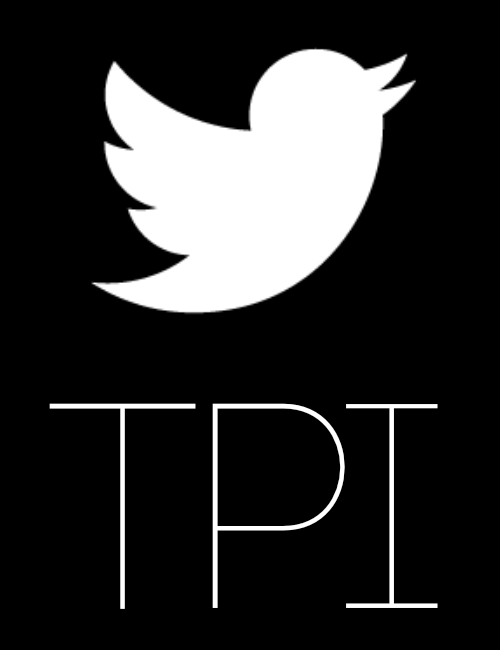
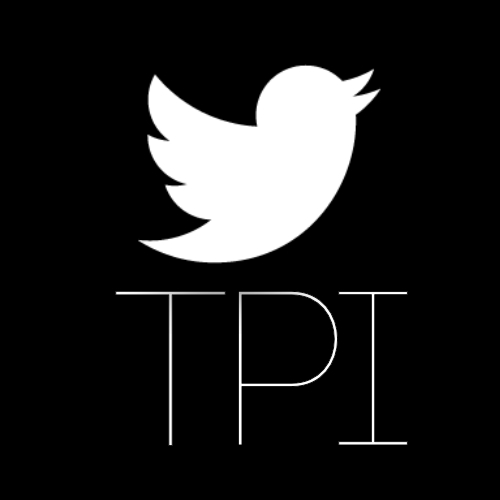
Added Fu Quote and fixed project size

Changed region(s): [[0.18, 0.06, 0.84, 0.54], [0.09, 0.57, 0.69, 0.93], [0.66, 0.57, 0.87, 0.96]]

diff --git a/index.html b/index.html
@@ -76,7 +76,6 @@
                 <h1>
                     Hugo Renzzo Olcese. <br>
                     Software Enigneer <br>
-                    in specific area.
                 </h1>
 
                 <div class="home-content__buttons">
@@ -593,11 +592,12 @@
 
                 <div class="testimonials__slide">
                     <img src="images/avatars/user-01.jpg" alt="Author image" class="testimonials__avatar">
-                    <p>Qui ipsam temporibus quisquam velMaiores eos cumque distinctio nam accusantium ipsum. 
-                    Laudantium quia consequatur molestias delectus culpa facere hic dolores aperiam. Accusantium quos qui praesentium corpori.</p>
+                    <p>"Hugo is one of the best students I have taught - highly motivated, superb in academics and energetic in tackling challenges. I'm impressed with his project management 
+                        and coding skills in his senior design project (FinnSec). He worked also as a research assistant for me during summer of 2018. Dependable and trustworthy person. Place 
+                        a job in his hand and you would not have to  worry about details - just wait for the impeccable result!"</p>
                     <div class="testimonials__author h06">
-                        Tim Cook
-                        <span>CEO, Apple</span>
+                        Xiang, Fu
+                        <span>Professor, Hofstra University</span>
                     </div>
                 </div>
 
